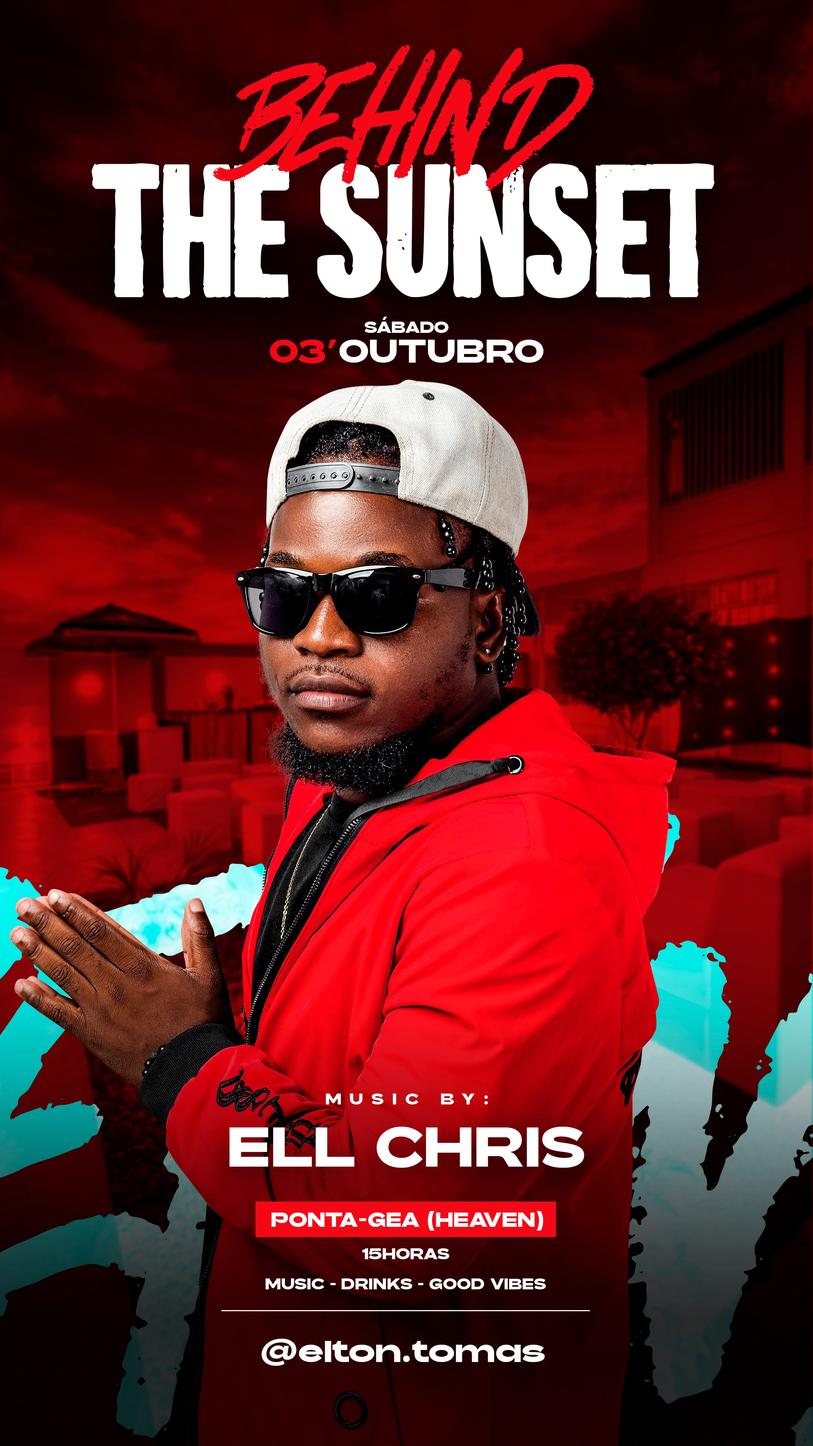
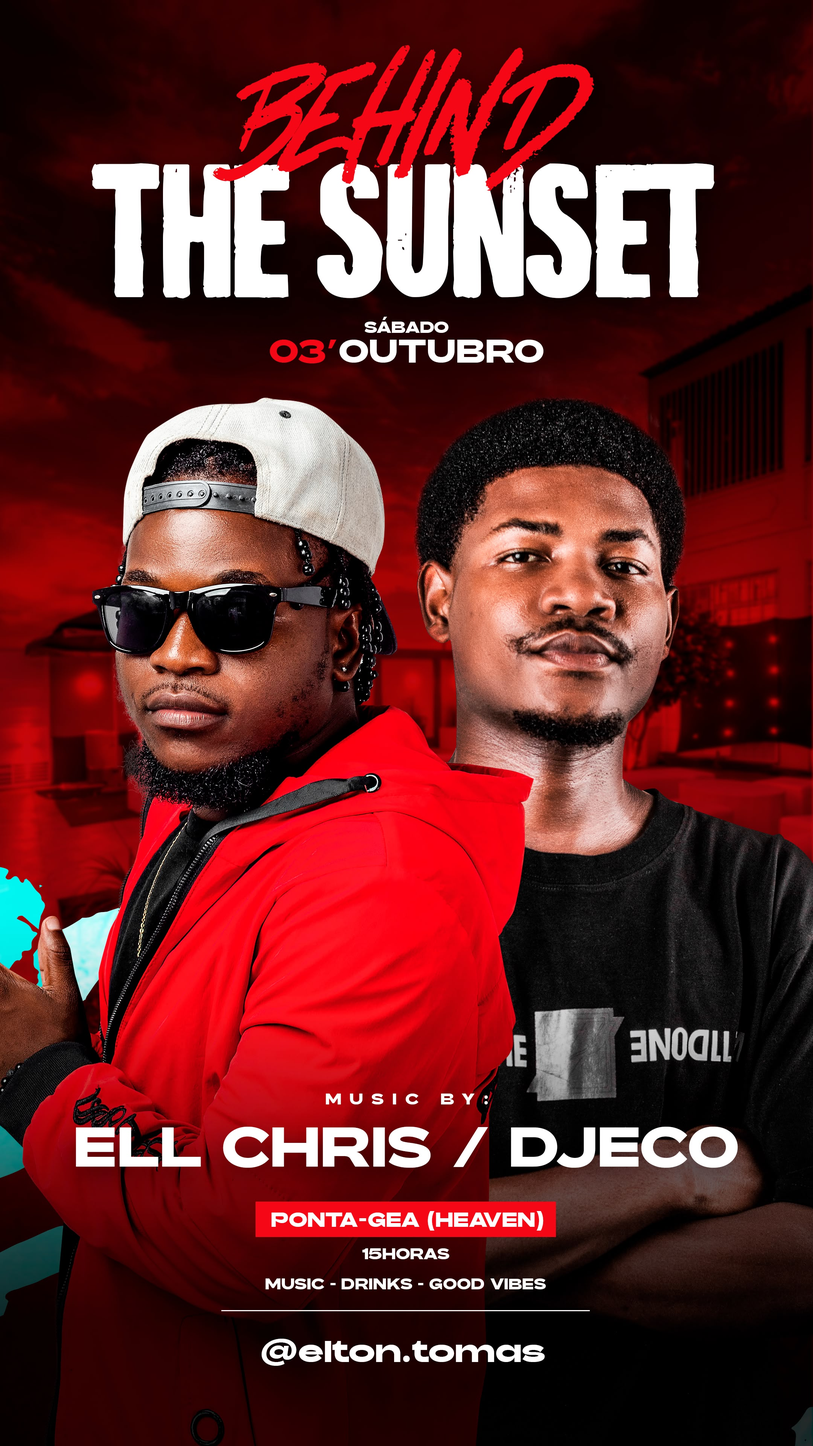
Atualizar página HEAVEN e cartaz do evento

diff --git a/behind-the-sunset.html b/behind-the-sunset.html
@@ -68,8 +68,13 @@
       animation: poster-in .8s ease-out both, poster-glow 5s ease-in-out 1s infinite;
     }
     .poster {
-      display: block; width: 100%; height: auto; border-radius: 13px;
-      background: #17070b;
+  display: block;
+  width: 100%;
+  height: auto;
+  border-radius: 13px;
+  background: #17070b;
+  animation: poster-breathe 7s ease-in-out infinite;
+  transform-origin: center center;
     }
     .poster-fallback {
       padding: 34px 16px; color: var(--muted); font-size: .9rem;
@@ -107,11 +112,20 @@
       box-shadow: 0 18px 55px rgba(0,0,0,.22);
     }
     .video-frame {
-      overflow: hidden; border-radius: 14px; background: #000;
-      border: 1px solid rgba(255,255,255,.09); aspect-ratio: 16 / 9;
-    }
-    video { display: block; width: 100%; height: 100%; object-fit: contain; background: #000; }
-    .video-note { color: var(--muted); text-align: center; font-size: .83rem; margin: 13px 0 0; }
+  overflow: hidden;
+  border-radius: 14px;
+  background: #000;
+  border: 1px solid rgba(255,255,255,.09);
+  aspect-ratio: 10 / 13;
+}
+
+video {
+  display: block;
+  width: 100%;
+  height: 100%;
+  object-fit: cover;
+  object-position: center;
+}
     .form-grid { display: grid; grid-template-columns: 1fr 1fr; gap: 15px; }
     .field { display: flex; flex-direction: column; gap: 7px; }
     .field.full { grid-column: 1 / -1; }
@@ -162,11 +176,151 @@
     @media (prefers-reduced-motion: reduce) {
       *, *::before, *::after { scroll-behavior: auto !important; animation: none !important; transition: none !important; }
     }
+        .success-modal {
+      position: fixed;
+      inset: 0;
+      z-index: 9999;
+      display: flex;
+      align-items: center;
+      justify-content: center;
+      padding: 20px;
+      background: rgba(0, 0, 0, .82);
+      backdrop-filter: blur(8px);
+      -webkit-backdrop-filter: blur(8px);
+      opacity: 0;
+      visibility: hidden;
+      pointer-events: none;
+      transition: opacity .3s ease, visibility .3s ease;
+    }
+
+    .success-modal.show {
+      opacity: 1;
+      visibility: visible;
+      pointer-events: auto;
+    }
+
+    .success-box {
+      position: relative;
+      width: min(100%, 430px);
+      padding: 34px 26px 28px;
+      text-align: center;
+      border: 1px solid rgba(255, 50, 75, .45);
+      border-radius: 24px;
+      background:
+        radial-gradient(circle at 50% 0%, rgba(255, 30, 60, .18), transparent 45%),
+        linear-gradient(145deg, #16070a, #080808);
+      box-shadow:
+        0 30px 90px rgba(0,0,0,.65),
+        0 0 45px rgba(255, 20, 50, .12);
+      transform: translateY(28px) scale(.92);
+      transition: transform .45s cubic-bezier(.2,.8,.2,1);
+      overflow: hidden;
+    }
+
+    .success-modal.show .success-box {
+      transform: translateY(0) scale(1);
+    }
+
+    .success-box::before {
+      content: "";
+      position: absolute;
+      width: 180px;
+      height: 180px;
+      left: 50%;
+      top: -110px;
+      transform: translateX(-50%);
+      border-radius: 50%;
+      background: rgba(255, 25, 55, .16);
+      filter: blur(20px);
+    }
+
+    .success-icon {
+      position: relative;
+      width: 82px;
+      height: 82px;
+      margin: 0 auto 20px;
+      display: flex;
+      align-items: center;
+      justify-content: center;
+      border-radius: 50%;
+      border: 2px solid rgba(255, 70, 90, .8);
+      background: rgba(255, 25, 55, .1);
+      box-shadow: 0 0 0 10px rgba(255, 25, 55, .06);
+      animation: successPulse 2s ease-in-out infinite;
+    }
+
+    .success-icon::after {
+      content: "✓";
+      font-size: 42px;
+      font-weight: 900;
+      color: #ff4964;
+      animation: successCheck .5s .15s ease both;
+    }
+
+    .success-title {
+      margin: 0;
+      font-size: clamp(1.7rem, 7vw, 2.25rem);
+      line-height: 1.05;
+      font-weight: 900;
+      letter-spacing: -.03em;
+    }
+
+    .success-title span {
+      color: #ff4964;
+    }
+
+    .success-text {
+      margin: 14px auto 0;
+      max-width: 340px;
+      color: var(--muted);
+      line-height: 1.6;
+    }
+
+    .success-close {
+      margin-top: 25px;
+      min-width: 190px;
+      border: 0;
+      cursor: pointer;
+    }
+
+    @keyframes successPulse {
+      0%, 100% { box-shadow: 0 0 0 10px rgba(255,25,55,.06); }
+      50% { box-shadow: 0 0 0 17px rgba(255,25,55,0); }
+    }
+
+    @keyframes successCheck {
+      from {
+        opacity: 0;
+        transform: scale(.45) rotate(-20deg);
+      }
+      to {
+        opacity: 1;
+        transform: scale(1) rotate(0);
+      }
+    }
+
+    @media (prefers-reduced-motion: reduce) {
+      .success-box,
+      .success-icon,
+      .success-icon::after {
+        animation: none;
+        transition: none;
+      }
+    }
+    @keyframes poster-breathe {
+  0%, 100% {
+    transform: scale(1);
+  }
+
+  70% {
+    transform: scale(1.018);
+  }
+    }
   </style>
 </head>
 <body>
   <header class="page topbar">
-    <div class="brand">PGrowth <span>Events</span></div>
+    <div class="brand"><span style="color:#fff">PGrowth</span> <span style="color:#ff233f">Events</span> <span style="color:#fff"> & Elton</span> <span style="color:#ff233f">Tomas</span></div>
     <a class="top-cta" href="#inscricao">Inscrever-me</a>
   </header>
 
@@ -198,17 +352,22 @@
     </section>
 
     <section class="page" id="video" aria-labelledby="video-title">
-      <h2 class="section-heading" id="video-title">Vídeo <span style="color:var(--red)">promocional</span></h2>
-      <p class="section-intro">Entra no ambiente do evento. O vídeo será reproduzido aqui.</p>
-      <div class="video-card">
-        <div class="video-frame">
-          <video controls playsinline preload="metadata" poster="heaven-poster-final.jpg">
-            <source src="promo-heaven.mp4" type="video/mp4">
-            O teu navegador não suporta a reprodução deste vídeo.
-          </video>
-        </div>
-        <p class="video-note">Se o vídeo não aparecer, confirma se <strong>promo-heaven.mp4</strong> está na mesma pasta desta página.</p>
-      </div>
+  <h2 class="section-heading" id="video-title">Viva o <span style="color:var(--red)">HEAVEN</span></h2>
+
+  <div class="video-card">
+    <div class="video-frame">
+      <video
+        autoplay
+        muted
+        loop
+        playsinline
+        preload="auto"
+        poster="heaven-poster-final.jpg"
+      >
+        <source src="promo-heaven.mp4" type="video/mp4">
+      </video>
+    </div>
+  </div>
     </section>
 
     <section class="page" id="inscricao" aria-labelledby="form-title">
@@ -240,7 +399,31 @@
       </div>
     </section>
   </main>
+  <div
+    id="success-modal"
+    class="success-modal"
+    role="dialog"
+    aria-modal="true"
+    aria-labelledby="success-title"
+    aria-hidden="true"
+  >
+    <div class="success-box">
+      <div class="success-icon" aria-hidden="true"></div>
 
+      <h2 class="success-title" id="success-title">
+        Inscrição <span>confirmada!</span>
+      </h2>
+
+      <p class="success-text">
+        A tua inscrição no HEAVEN foi recebida com sucesso.
+        Esperamos por ti no dia 03 de outubro.
+      </p>
+
+      <button class="button success-close" id="success-close" type="button">
+        CONTINUAR
+      </button>
+    </div>
+  </div>
   <footer>
     <div><strong>HEAVEN</strong></div>
     <div>03 de outubro de 2026 · Ponta-Gêa</div>
@@ -252,7 +435,29 @@
       const form = document.getElementById("registration-form");
       const button = document.getElementById("submit-button");
       const status = document.getElementById("form-status");
+            const successModal = document.getElementById("success-modal");
+      const successClose = document.getElementById("success-close");
 
+      function openSuccessModal() {
+        successModal.classList.add("show");
+        successModal.setAttribute("aria-hidden", "false");
+        document.body.style.overflow = "hidden";
+        successClose.focus();
+      }
+
+      function closeSuccessModal() {
+        successModal.classList.remove("show");
+        successModal.setAttribute("aria-hidden", "true");
+        document.body.style.overflow = "";
+      }
+
+      successClose.addEventListener("click", closeSuccessModal);
+
+      successModal.addEventListener("click", (event) => {
+        if (event.target === successModal) {
+          closeSuccessModal();
+        }
+      });
       function showStatus(message, type) {
         status.textContent = message;
         status.className = "form-status show " + type;
@@ -295,9 +500,11 @@
           let result = {};
           try { result = await response.json(); } catch (_) {}
 
-          if (response.ok && result && result.success === true) {
+                    if (response.ok && result && result.success === true) {
             form.reset();
-            showStatus("Inscrição recebida com sucesso! Guarda esta confirmação. Obrigado.", "success");
+            status.className = "form-status";
+            status.textContent = "";
+            openSuccessModal();
           } else {
             const knownMessages = {
               INVALID_NAME: "O nome indicado não é válido. Confirma e tenta novamente.",
